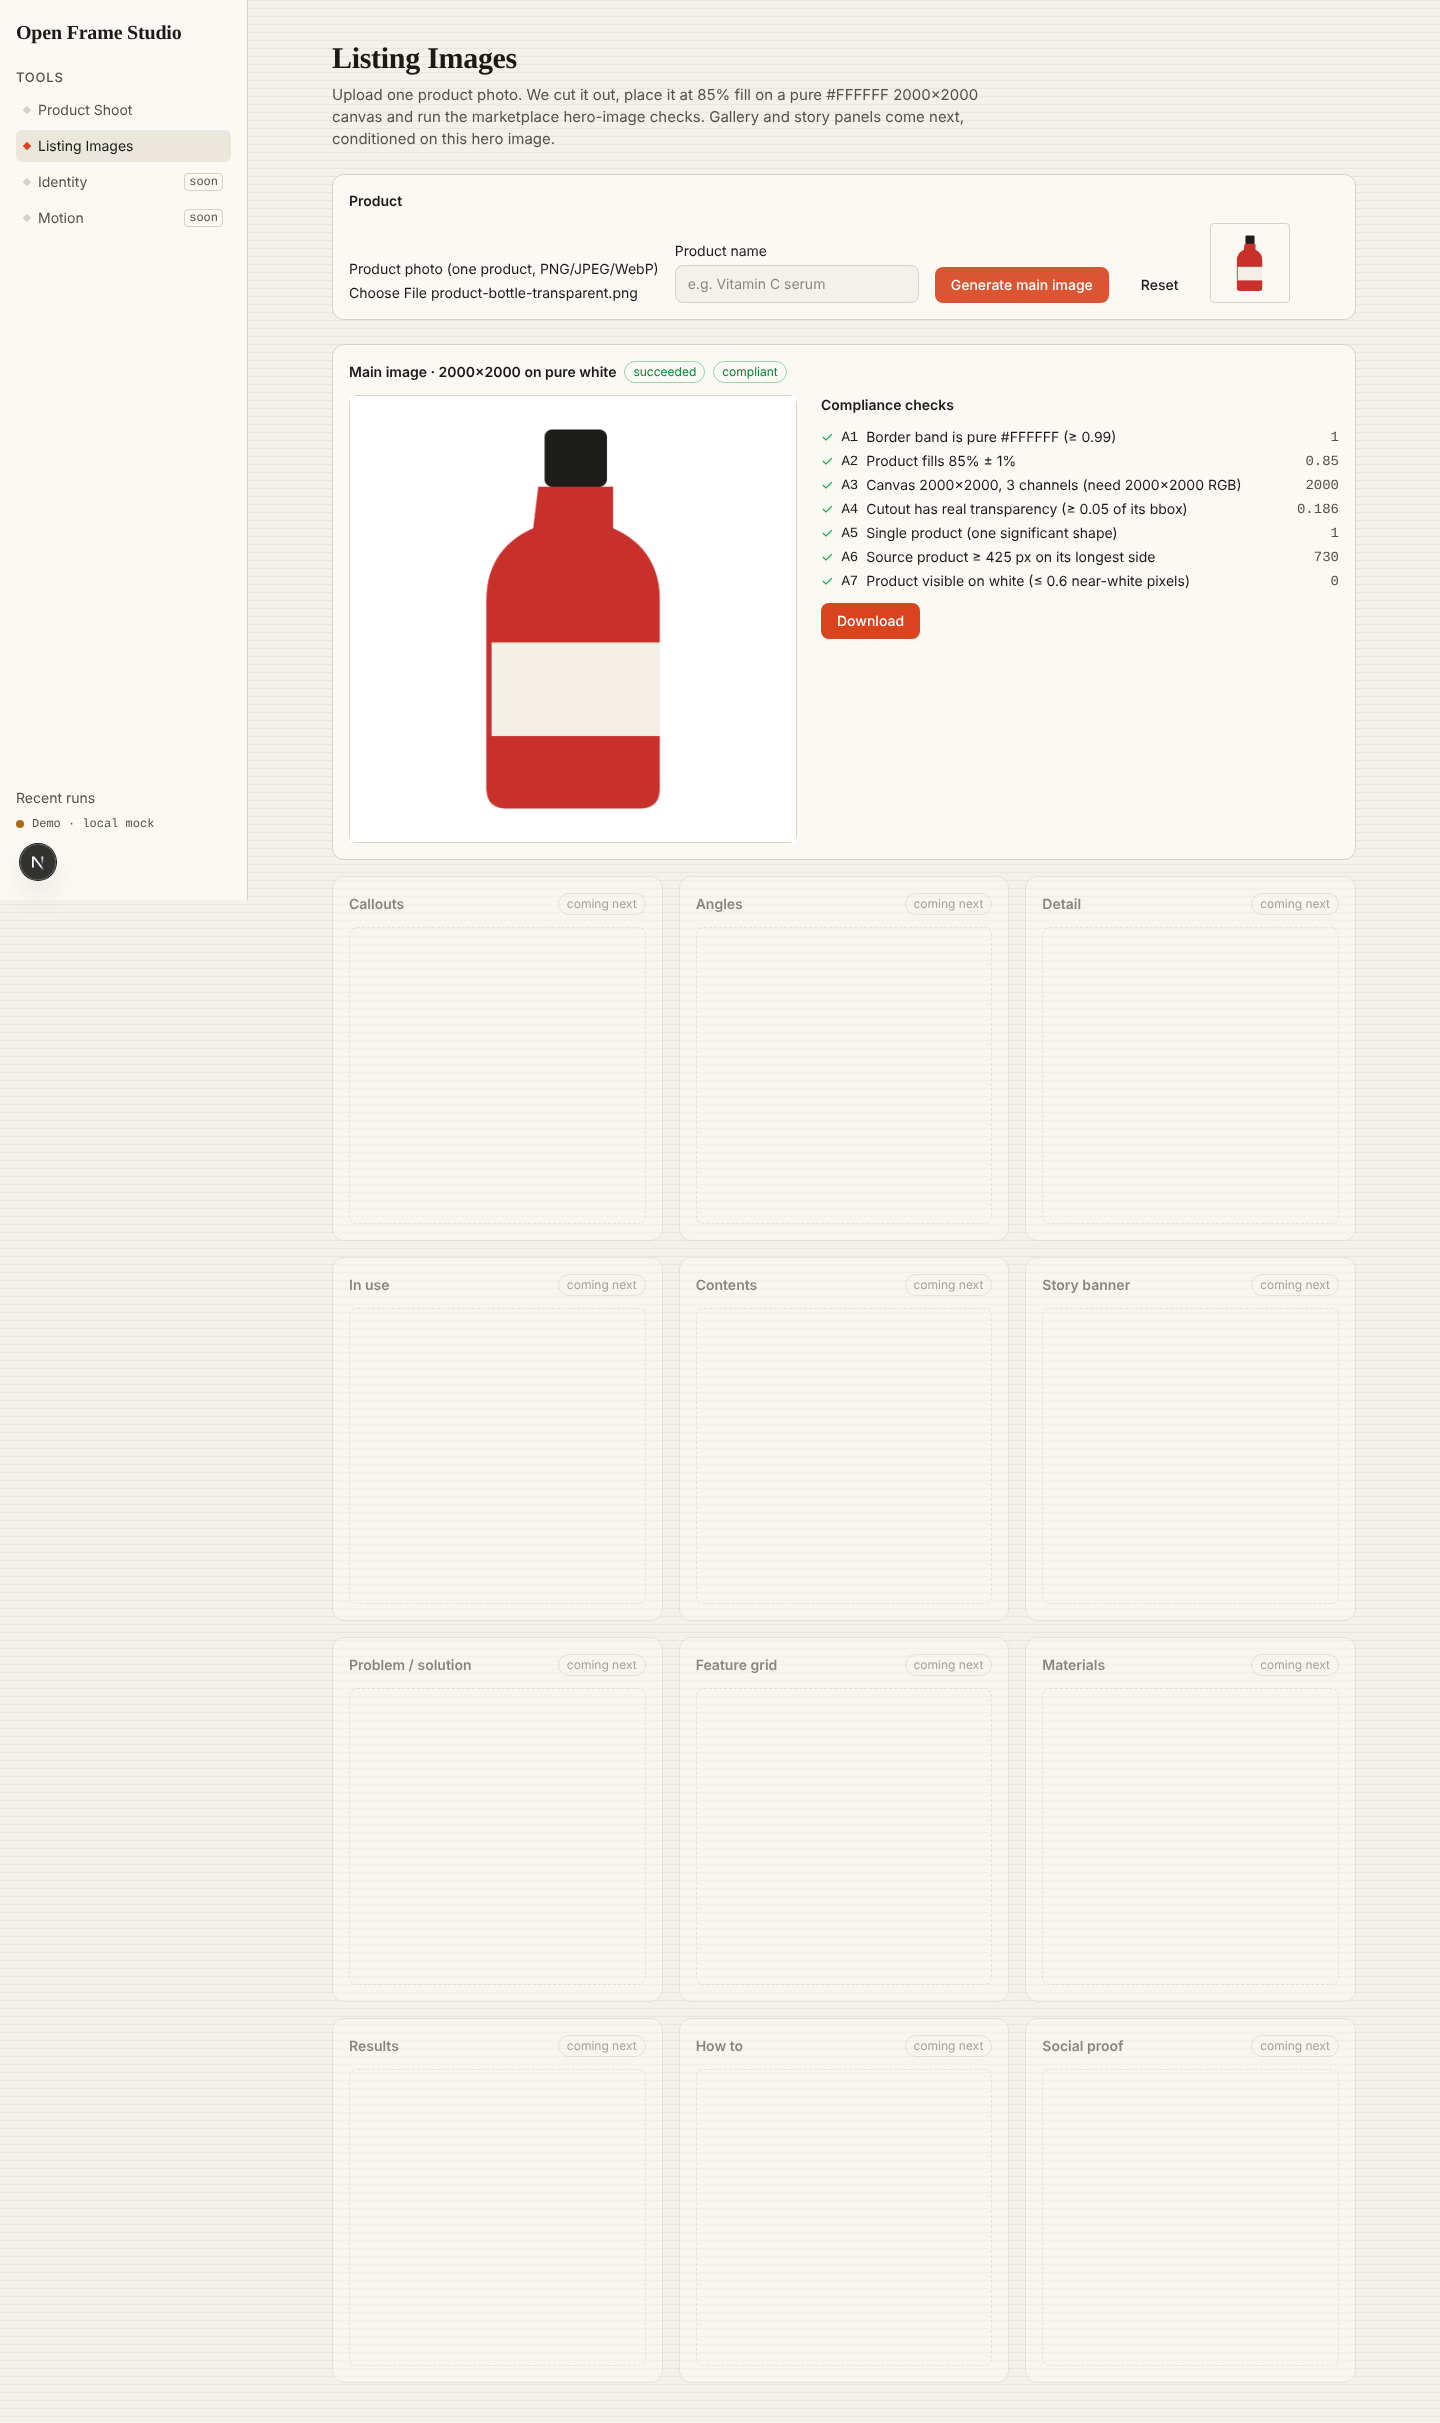
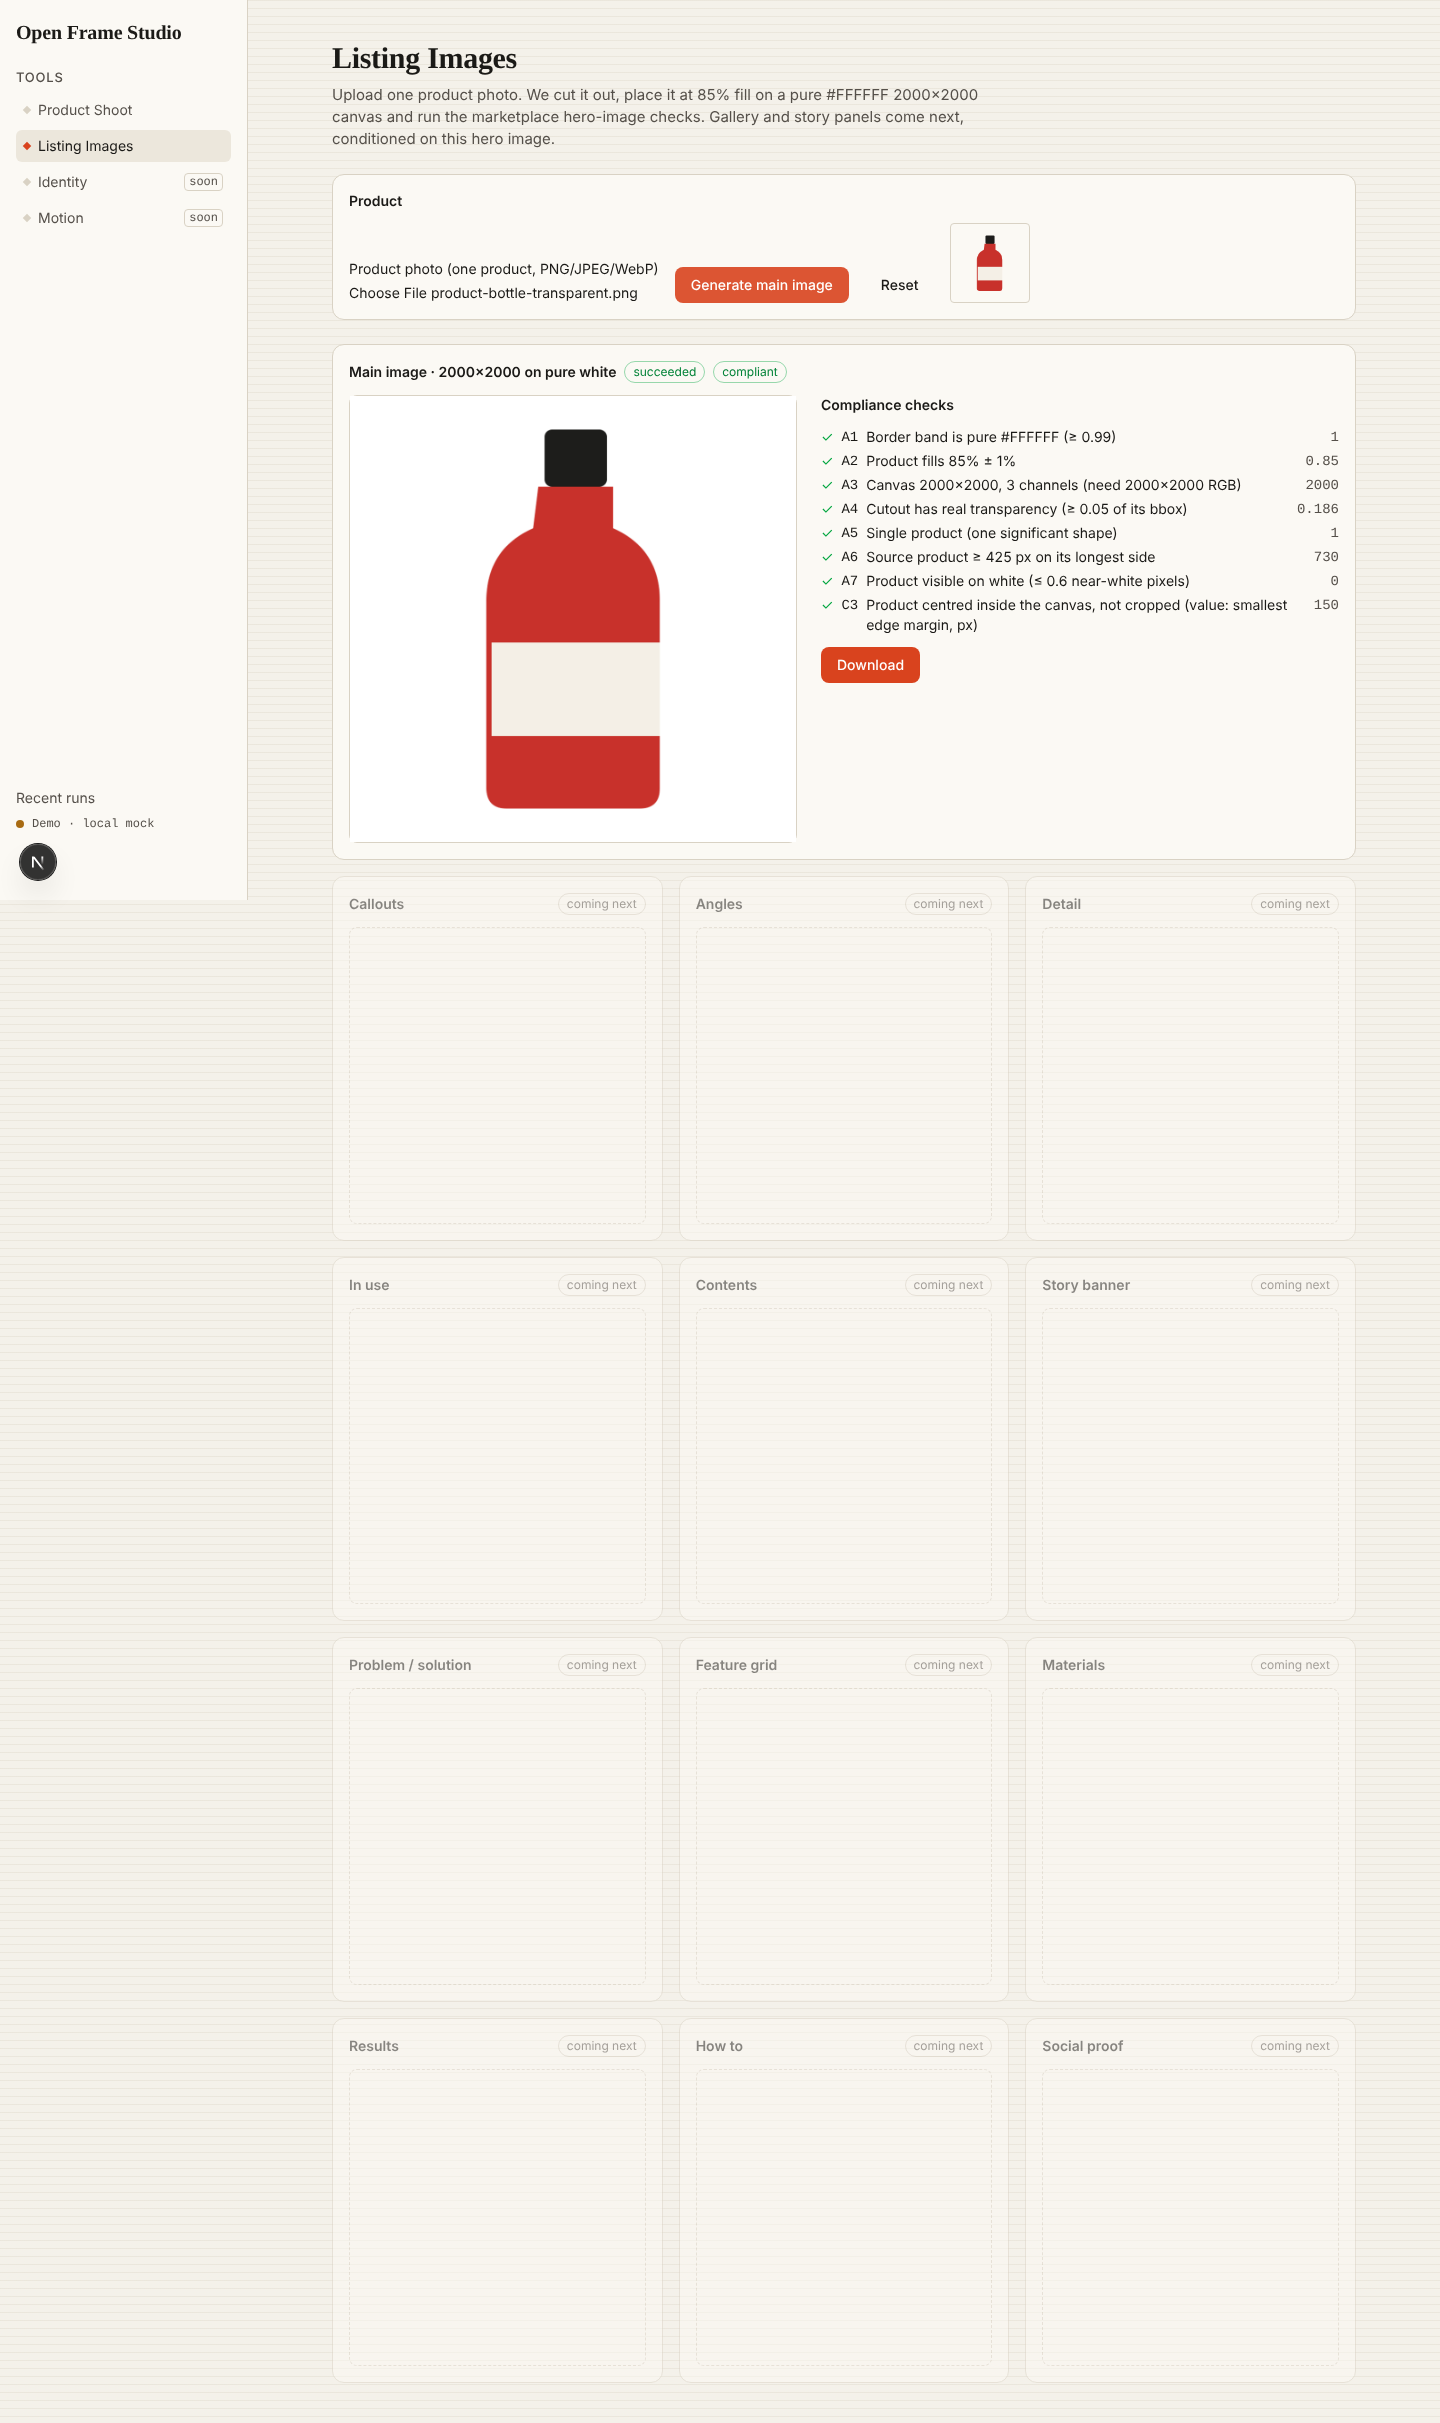
Demo script: list C3; refresh screenshots
The Listing hero now runs A1-A7 plus C3 (centred, not cropped); the
screenshots show the round-3 UI.

diff --git a/docs/submission/demo-script.md b/docs/submission/demo-script.md
@@ -38,7 +38,7 @@ pnpm demo          # mock Comfy on 127.0.0.1:8199 + the studio on http://127.0.0
 ## 2:40 – 3:40 · Listing Images, the hero image
 
 - Click **Listing Images** and upload `product-bottle-transparent.png`.
-- Click **Generate main image**. The product is cut out, placed at 85% fill on a pure #FFFFFF 2000×2000 canvas, and checked against A1–A7 (white border, fill, canvas size, real transparency, one product, source size, visible on white).
+- Click **Generate main image**. The product is cut out, placed at 85% fill on a pure #FFFFFF 2000×2000 canvas, and checked against A1–A7 and C3 (white border, fill, canvas size, real transparency, one product, source size, visible on white, centred and not cropped).
 - Show the checks and the **compliant** pill, then **Download**. The download link only appears for a compliant image.
 - Optional: upload a busy-background photo instead. The run fails with a plain-words reason ("The background was not removed…") and an **Upload a different photo** button: the gate in action.
 - The gallery and story panels are shown as *coming next*. Say so; don't click them.
